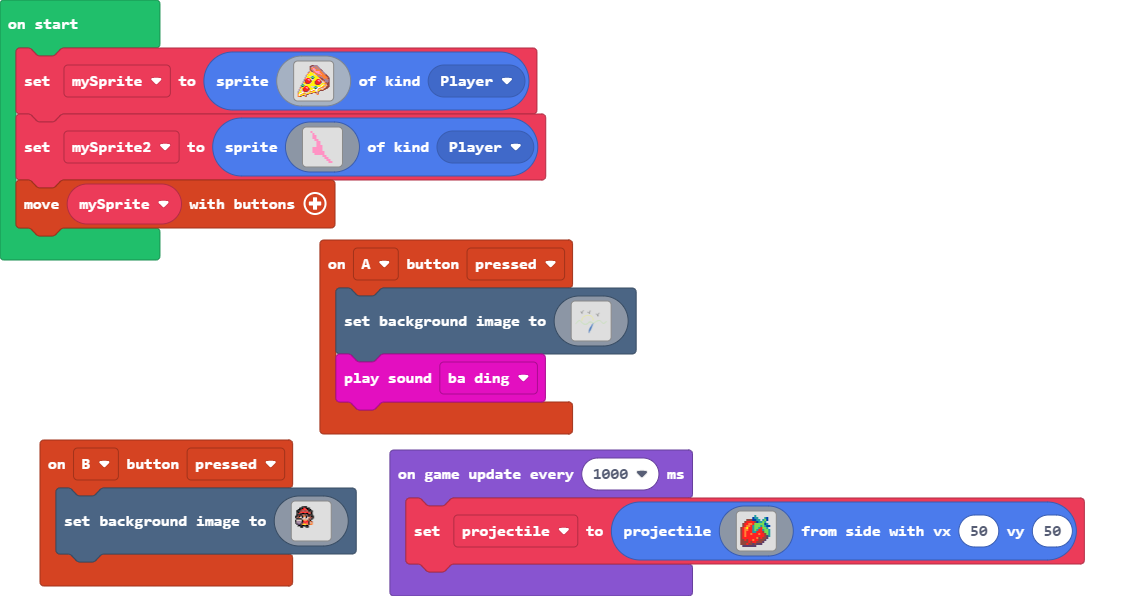
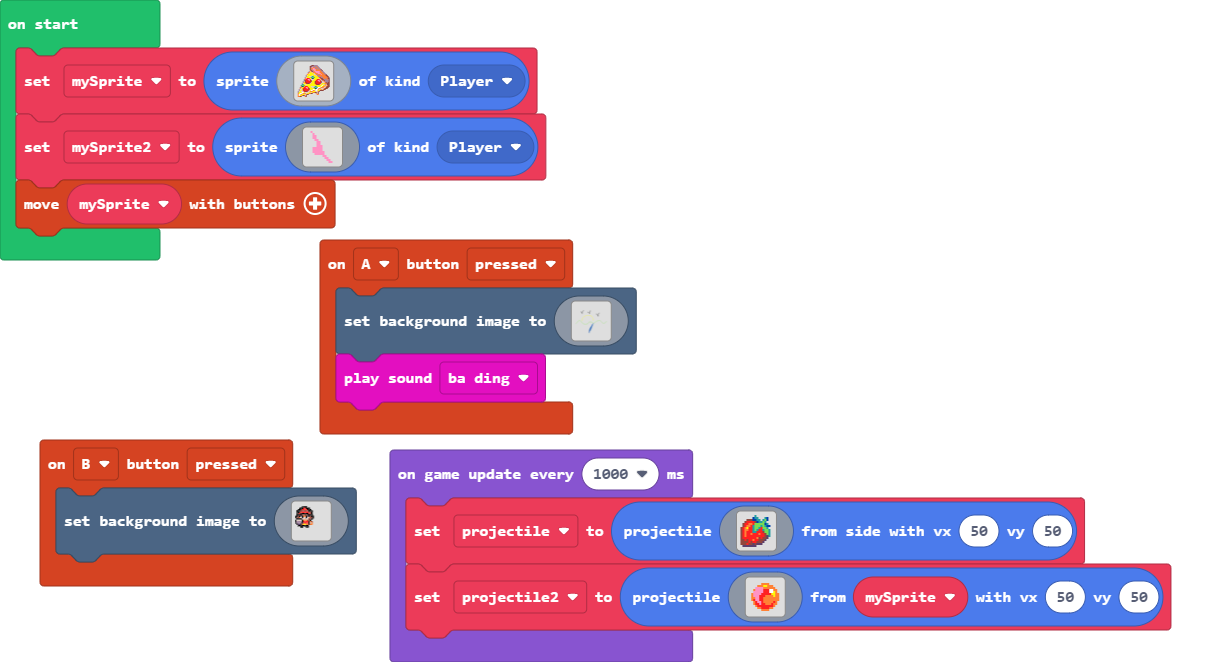
ball added

diff --git a/main.ts b/main.ts
@@ -151,6 +151,7 @@ controller.A.onEvent(ControllerButtonEvent.Pressed, function () {
         `)
     music.baDing.play()
 })
+let projectile2: Sprite = null
 let projectile: Sprite = null
 let mySprite = sprites.create(img`
     .............beebbbb............
@@ -224,4 +225,22 @@ game.onUpdateInterval(1000, function () {
         e e e 2 e e c e c c c . . . . . 
         . c c c c c c c . . . . . . . . 
         `, 50, 50)
+    projectile2 = sprites.createProjectileFromSprite(img`
+        . . . . . . . . . . . . . . . . 
+        . . . . . . 4 4 4 4 . . . . . . 
+        . . . . 4 4 4 5 5 4 4 4 . . . . 
+        . . . 3 3 3 3 4 4 4 4 4 4 . . . 
+        . . 4 3 3 3 3 2 2 2 1 1 4 4 . . 
+        . . 3 3 3 3 3 2 2 2 1 1 5 4 . . 
+        . 4 3 3 3 3 2 2 2 2 2 5 5 4 4 . 
+        . 4 3 3 3 2 2 2 4 4 4 4 5 4 4 . 
+        . 4 4 3 3 2 2 4 4 4 4 4 4 4 4 . 
+        . 4 2 3 3 2 2 4 4 4 4 4 4 4 4 . 
+        . . 4 2 3 3 2 4 4 4 4 4 2 4 . . 
+        . . 4 2 2 3 2 2 4 4 4 2 4 4 . . 
+        . . . 4 2 2 2 2 2 2 2 2 4 . . . 
+        . . . . 4 4 2 2 2 2 4 4 . . . . 
+        . . . . . . 4 4 4 4 . . . . . . 
+        . . . . . . . . . . . . . . . . 
+        `, mySprite, 50, 50)
 })

diff --git a/images.g.ts b/images.g.ts
@@ -221,6 +221,24 @@ e e e e 2 e 2 2 e e e c . . . .
 e e e 2 e e c e c c c . . . . . 
 . c c c c c c c . . . . . . . . 
 `;
+            case "image6":return img`
+. . . . . . . . . . . . . . . . 
+. . . . . . 4 4 4 4 . . . . . . 
+. . . . 4 4 4 5 5 4 4 4 . . . . 
+. . . 3 3 3 3 4 4 4 4 4 4 . . . 
+. . 4 3 3 3 3 2 2 2 1 1 4 4 . . 
+. . 3 3 3 3 3 2 2 2 1 1 5 4 . . 
+. 4 3 3 3 3 2 2 2 2 2 5 5 4 4 . 
+. 4 3 3 3 2 2 2 4 4 4 4 5 4 4 . 
+. 4 4 3 3 2 2 4 4 4 4 4 4 4 4 . 
+. 4 2 3 3 2 2 4 4 4 4 4 4 4 4 . 
+. . 4 2 3 3 2 4 4 4 4 4 2 4 . . 
+. . 4 2 2 3 2 2 4 4 4 2 4 4 . . 
+. . . 4 2 2 2 2 2 2 2 2 4 . . . 
+. . . . 4 4 2 2 2 2 4 4 . . . . 
+. . . . . . 4 4 4 4 . . . . . . 
+. . . . . . . . . . . . . . . . 
+`;
         }
         return null;
     })
